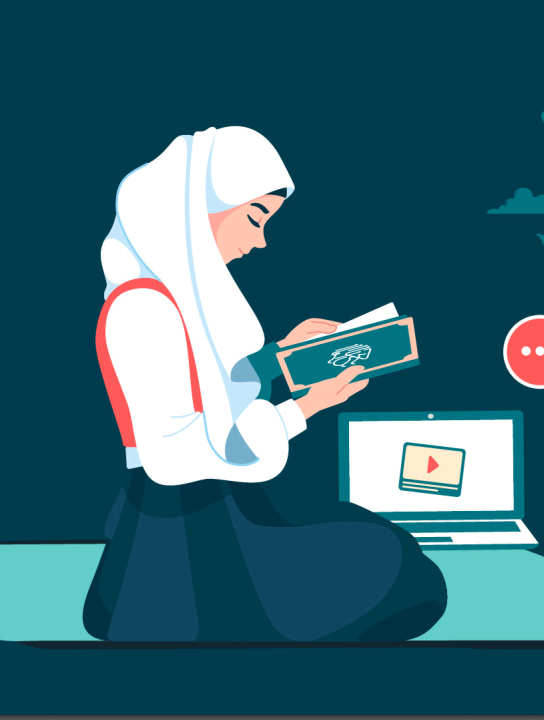
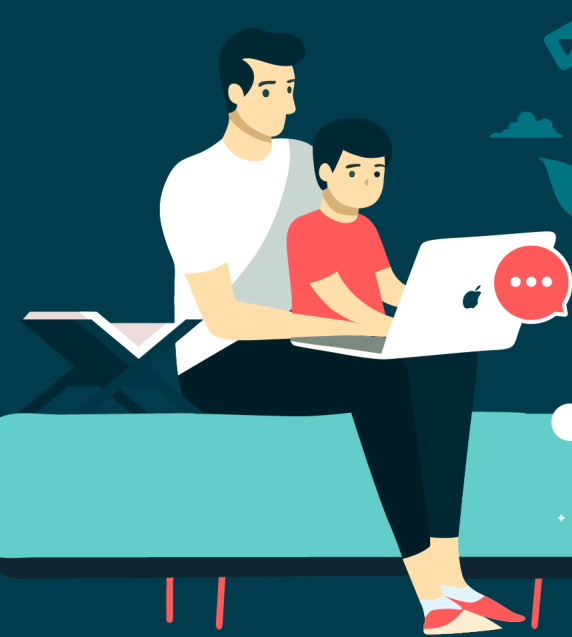
add new images & new Testimonials

diff --git a/lib/data/testimonials.js b/lib/data/testimonials.js
@@ -2,82 +2,55 @@ export const testimonials = [
   {
     date: "15 May 2020 9:30 am",
 
-    text: "My experience with property management services has exceeded expectations. They efficiently manage properties with a professional and attentive approach in every situation. I feel reassured that any issue will be resolved promptly and effectively.",
-    authorImage: "/images/author/avt2.jpg",
+    text: "Mrs. Gihan Zarea has been teaching my 3 kids Arabic and Quran with patience and professionalism. She makes learning joyful, and I highly recommend her.",
 
-    authorName: "Arlene McCoy",
-    authorTitle: "CEO Themesflat",
   },
   {
     date: "15 May 2020 9:30 am",
 
-    text: "My experience with property management services has exceeded expectations. They efficiently manage properties with a professional and attentive approach in every situation. I feel reassured that any issue will be resolved promptly and effectively.",
-    authorImage: "/images/author/1.jpg",
+    text: "Mrs. Gihan Zarea makes learning Arabic and Quran joyful and effective for kids — highly recommended!",
 
-    authorName: "Arlene McCoy",
-    authorTitle: "CEO Themesflat",
   },
   {
     date: "15 May 2020 9:30 am",
 
-    text: "My experience with property management services has exceeded expectations. They efficiently manage properties with a professional and attentive approach in every situation. I feel reassured that any issue will be resolved promptly and effectively.",
-    authorImage: "/images/author/avt-cm3.jpg",
+    text: "At Al Zakireen Academy, Usthada Gihan makes Quran learning joyful and effective. Her patience, kindness, and engaging style keep kids excited for every lesson — highly recommended!",
 
-    authorName: "Arlene McCoy",
-    authorTitle: "CEO Themesflat",
   },
   {
     date: "15 May 2020 9:30 am",
 
-    text: "My experience with property management services has exceeded expectations. They efficiently manage properties with a professional and attentive approach in every situation. I feel reassured that any issue will be resolved promptly and effectively.",
-    authorImage: "/images/author/avt2.jpg",
+    text: "Al-Zakireen Academy has been a true blessing — my children improved in Hifz, Tajweed, and developed a deep love for the Qur’an thanks to the patience and care of their teacher. Highly recommended!",
 
-    authorName: "Arlene McCoy",
-    authorTitle: "CEO Themesflat",
   },
   {
     date: "15 May 2020 9:30 am",
 
-    text: "My experience with property management services has exceeded expectations. They efficiently manage properties with a professional and attentive approach in every situation. I feel reassured that any issue will be resolved promptly and effectively.",
-    authorImage: "/images/author/1.jpg",
+    text: "Sister Gihan is one of the best Quran teachers I’ve had — passionate, thorough, and dedicated to helping students truly understand and apply Tajweed.",
 
-    authorName: "Arlene McCoy",
-    authorTitle: "CEO Themesflat",
   },
   {
     date: "15 May 2020 9:30 am",
 
-    text: "My experience with property management services has exceeded expectations. They efficiently manage properties with a professional and attentive approach in every situation. I feel reassured that any issue will be resolved promptly and effectively.",
-    authorImage: "/images/author/avt-cm3.jpg",
+    text: "Alhamduallah, I started not knowing the Arabic alphabet with Brother Ammar, and over the last couple of years, I’ve achieved many milestones, from being able to read multiple pages of the Quran without hesitation and confident in reading by myself.",
 
-    authorName: "Arlene McCoy",
-    authorTitle: "CEO Themesflat",
   },
   {
     date: "15 May 2020 9:30 am",
 
-    text: "My experience with property management services has exceeded expectations. They efficiently manage properties with a professional and attentive approach in every situation. I feel reassured that any issue will be resolved promptly and effectively.",
-    authorImage: "/images/author/avt2.jpg",
+    text: "Learning with Ammar transformed my journey with the Qur’an. With patience, professionalism, and sincere care, he helped me progress from a beginner to reciting with Tajweed — highly recommended for adult learners.",
 
-    authorName: "Arlene McCoy",
-    authorTitle: "CEO Themesflat",
   },
   {
     date: "15 May 2020 9:30 am",
 
-    text: "My experience with property management services has exceeded expectations. They efficiently manage properties with a professional and attentive approach in every situation. I feel reassured that any issue will be resolved promptly and effectively.",
-    authorImage: "/images/author/1.jpg",
+    text: "Over the past two years, our daughter Amalia has received Quranic instruction from her Religious Education teacher Sheikh Ammar El Nimr, focusing on recitation and memorization. His structured methodology, patience, and commitment to excellence have significantly advanced her understanding and appreciation of the Quran. We commend his dedication and the positive influence he continues to have. Jazakum Allahu Khayran",
 
-    authorName: "Arlene McCoy",
-    authorTitle: "CEO Themesflat",
   },
   {
     date: "15 May 2020 9:30 am",
 
-    text: "My experience with property management services has exceeded expectations. They efficiently manage properties with a professional and attentive approach in every situation. I feel reassured that any issue will be resolved promptly and effectively.",
-    authorImage: "/images/author/avt-cm3.jpg",
+    text: "During my journey through learning Quran, Amaar has been very helpful in allowing me to keep my tajweed and pronunciation skills in check. His methods of learning with memorization as well as regular Quran readings have helped me to become more confident and articulate with the way I read. His fine attention to details in fixing small mistakes in my reading has been very beneficial to my growth in during these classes. All in all, he’s been very good and I couldn’t ask for a better instructor to learn Quran from.",
 
-    authorName: "Arlene McCoy",
-    authorTitle: "CEO Themesflat",
   },
 ];

diff --git a/components/Home/OurOrganization/Testimonials.jsx b/components/Home/OurOrganization/Testimonials.jsx
@@ -77,21 +77,12 @@ export default function Testimonials() {
                       </div>
                     </div>
                     <p className="fs-16 lh-22 text-color-2">"{elm.text}"</p>
-                    <div className="author-box flex">
-                      <div className="images">
-                        <Image
-                          className="ls-is-cached lazyloaded"
-                          alt="images"
-                          src={elm.authorImage}
-                          width={57}
-                          height={57}
-                        />
-                      </div>
+                    {/* <div className="author-box flex">
                       <div className="content">
                         <h5>{elm.authorName}</h5>
                         <p className="fs-12 lh-16">{elm.authorTitle}</p>
                       </div>
-                    </div>
+                    </div> */}
                   </div>
                 </SwiperSlide>
               ))}

diff --git a/components/AboutUs/Features3.jsx b/components/AboutUs/Features3.jsx
@@ -38,14 +38,14 @@ export default function Features3() {
                   height={890}
                 />
               </div>
-              <div className="image-inner2">
+              <div className="image-inner2 ">
                 <Image
                   className="ls-is-cached lazyloaded"
-                  data-src="/images/section/wcu-2.png"
+                  data-src="/images/section/wcu_2.png"
                   alt="images"
-                  src="/images/section/wcu-2.png"
-                  width={661}
-                  height={307}
+                  src="/images/section/wcu_2.png"
+                  width={400}
+                  height={100}
                 />
               </div>
             </div>

diff --git a/styles/responsive.scss b/styles/responsive.scss
@@ -717,8 +717,7 @@
   }
 
   .section-why-choose-us .image-wcs .image-inner2 {
-    bottom: 0%;
-    right: 0%;
+    display: none;
   }
 
   .slider.home3 .slider-item .content {

diff --git a/styles/component/_section.scss b/styles/component/_section.scss
@@ -4163,8 +4163,8 @@
 
     .image-inner2 {
       position: absolute;
-      bottom: -21%;
-      right: -20%;
+      bottom: -70%;
+      right: -6%;
     }
 
     .icon-list {

diff --git a/styles/component/_widget.scss b/styles/component/_widget.scss
@@ -972,6 +972,7 @@
   padding: 30px;
   background-color: $color-1;
   border-radius: 20px;
+   min-height: 300px;
 
   &.style-2 {
     .author-box {
